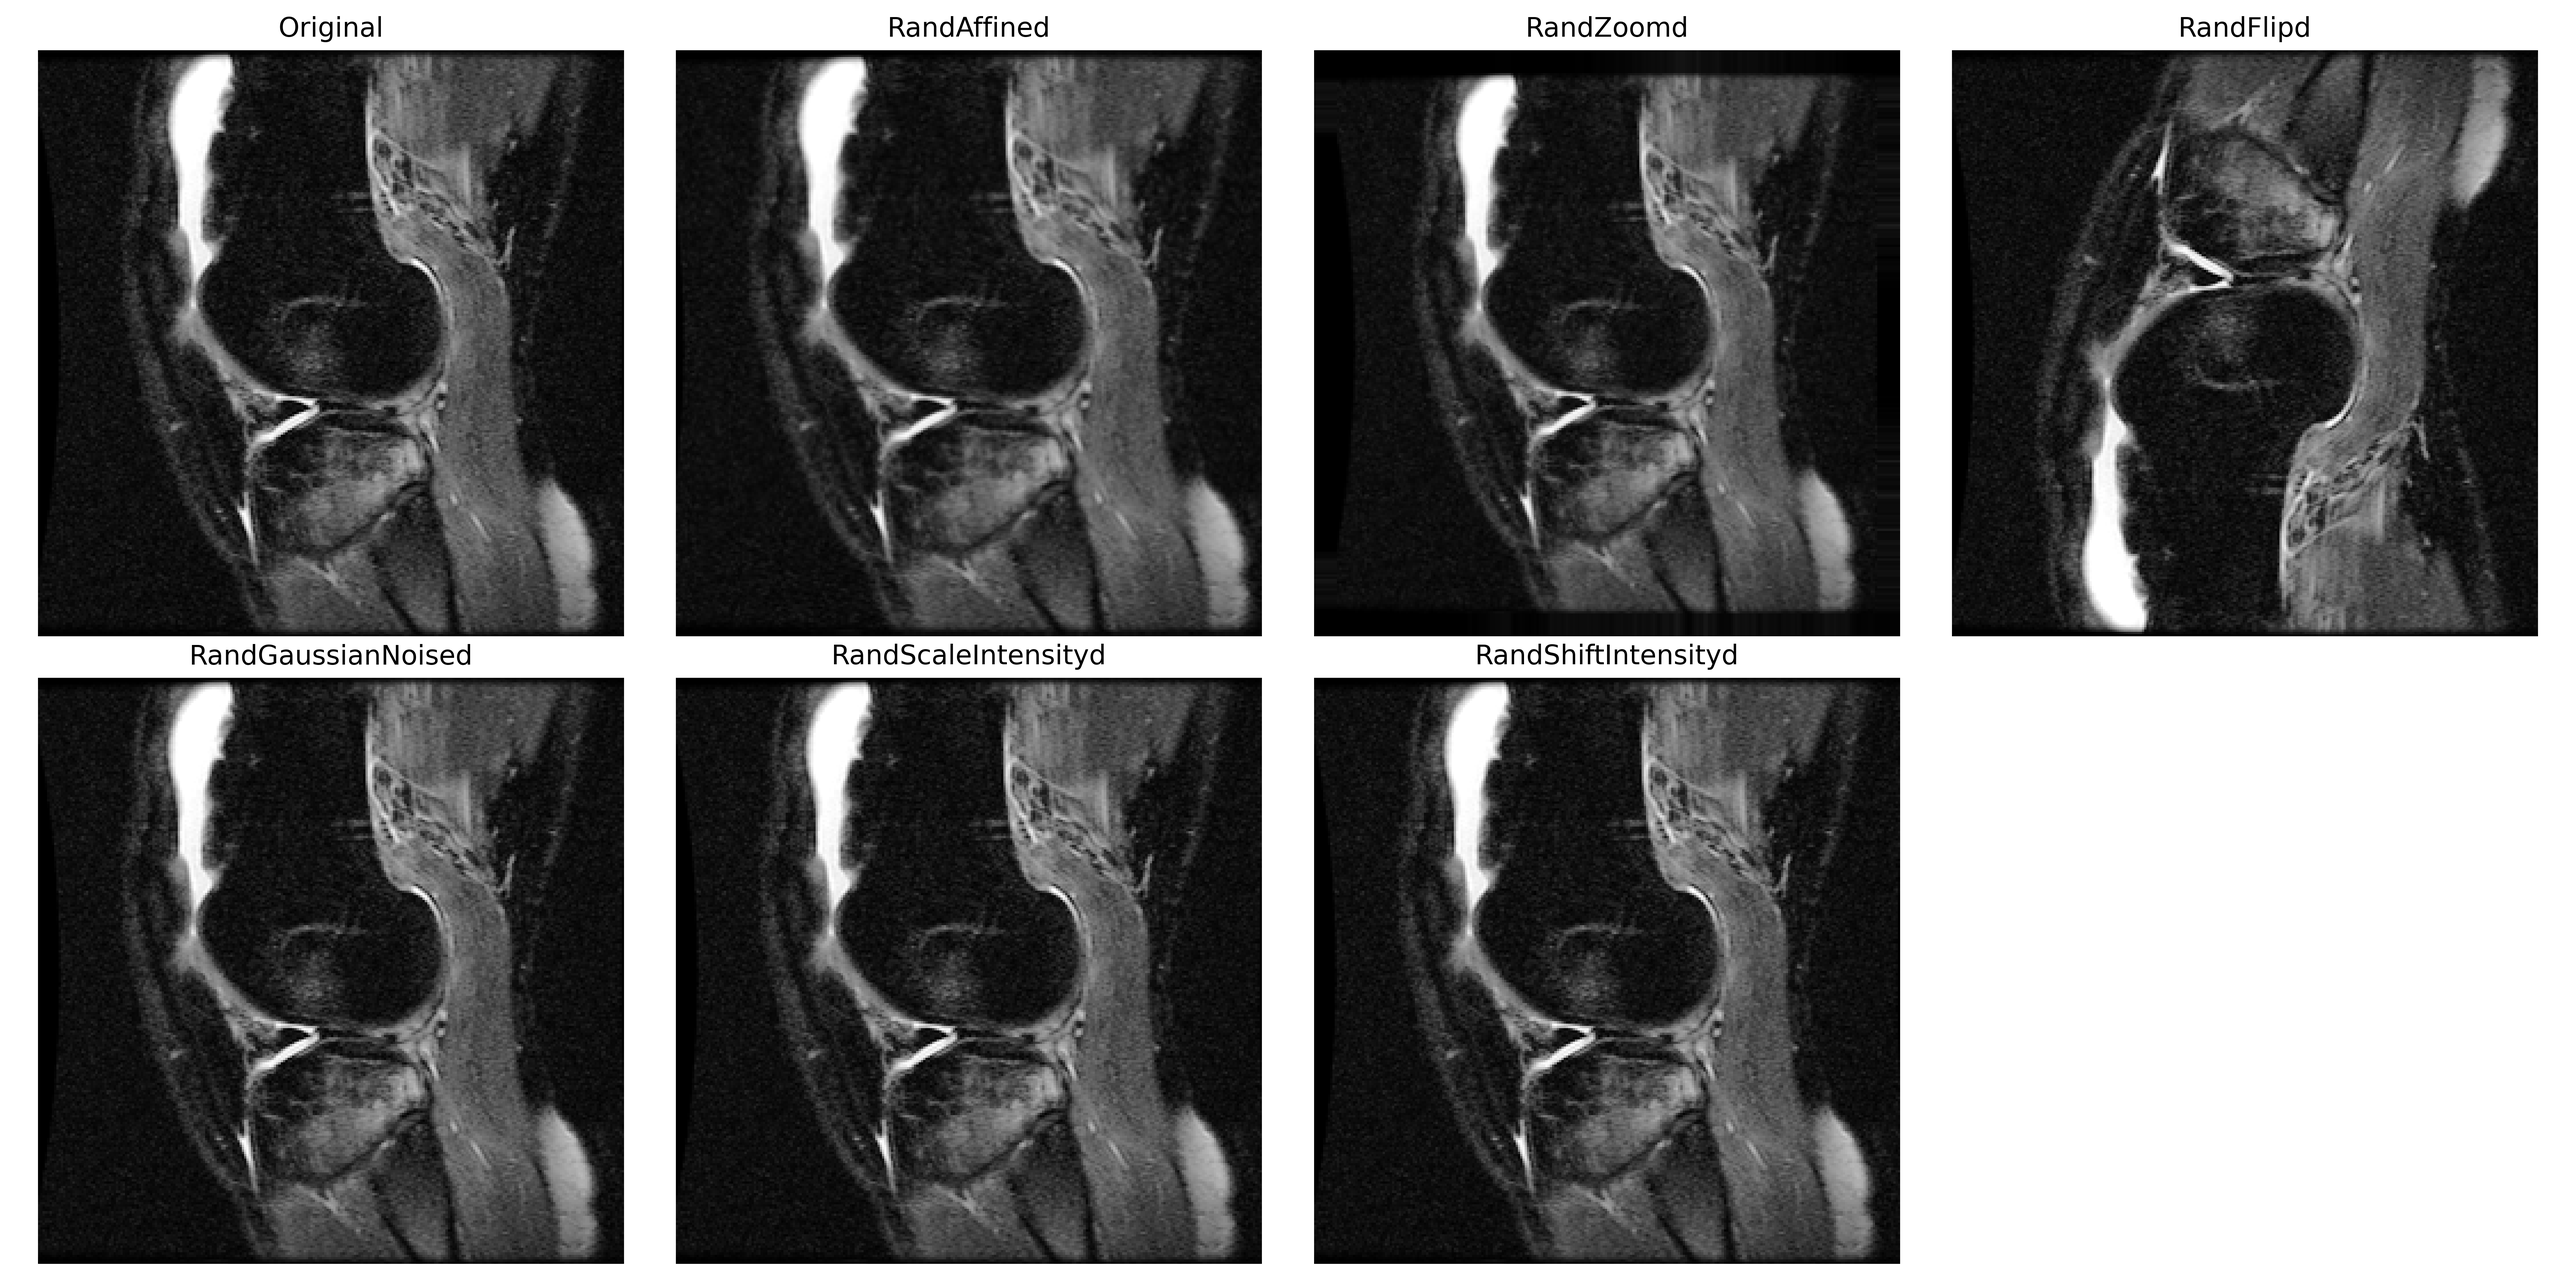
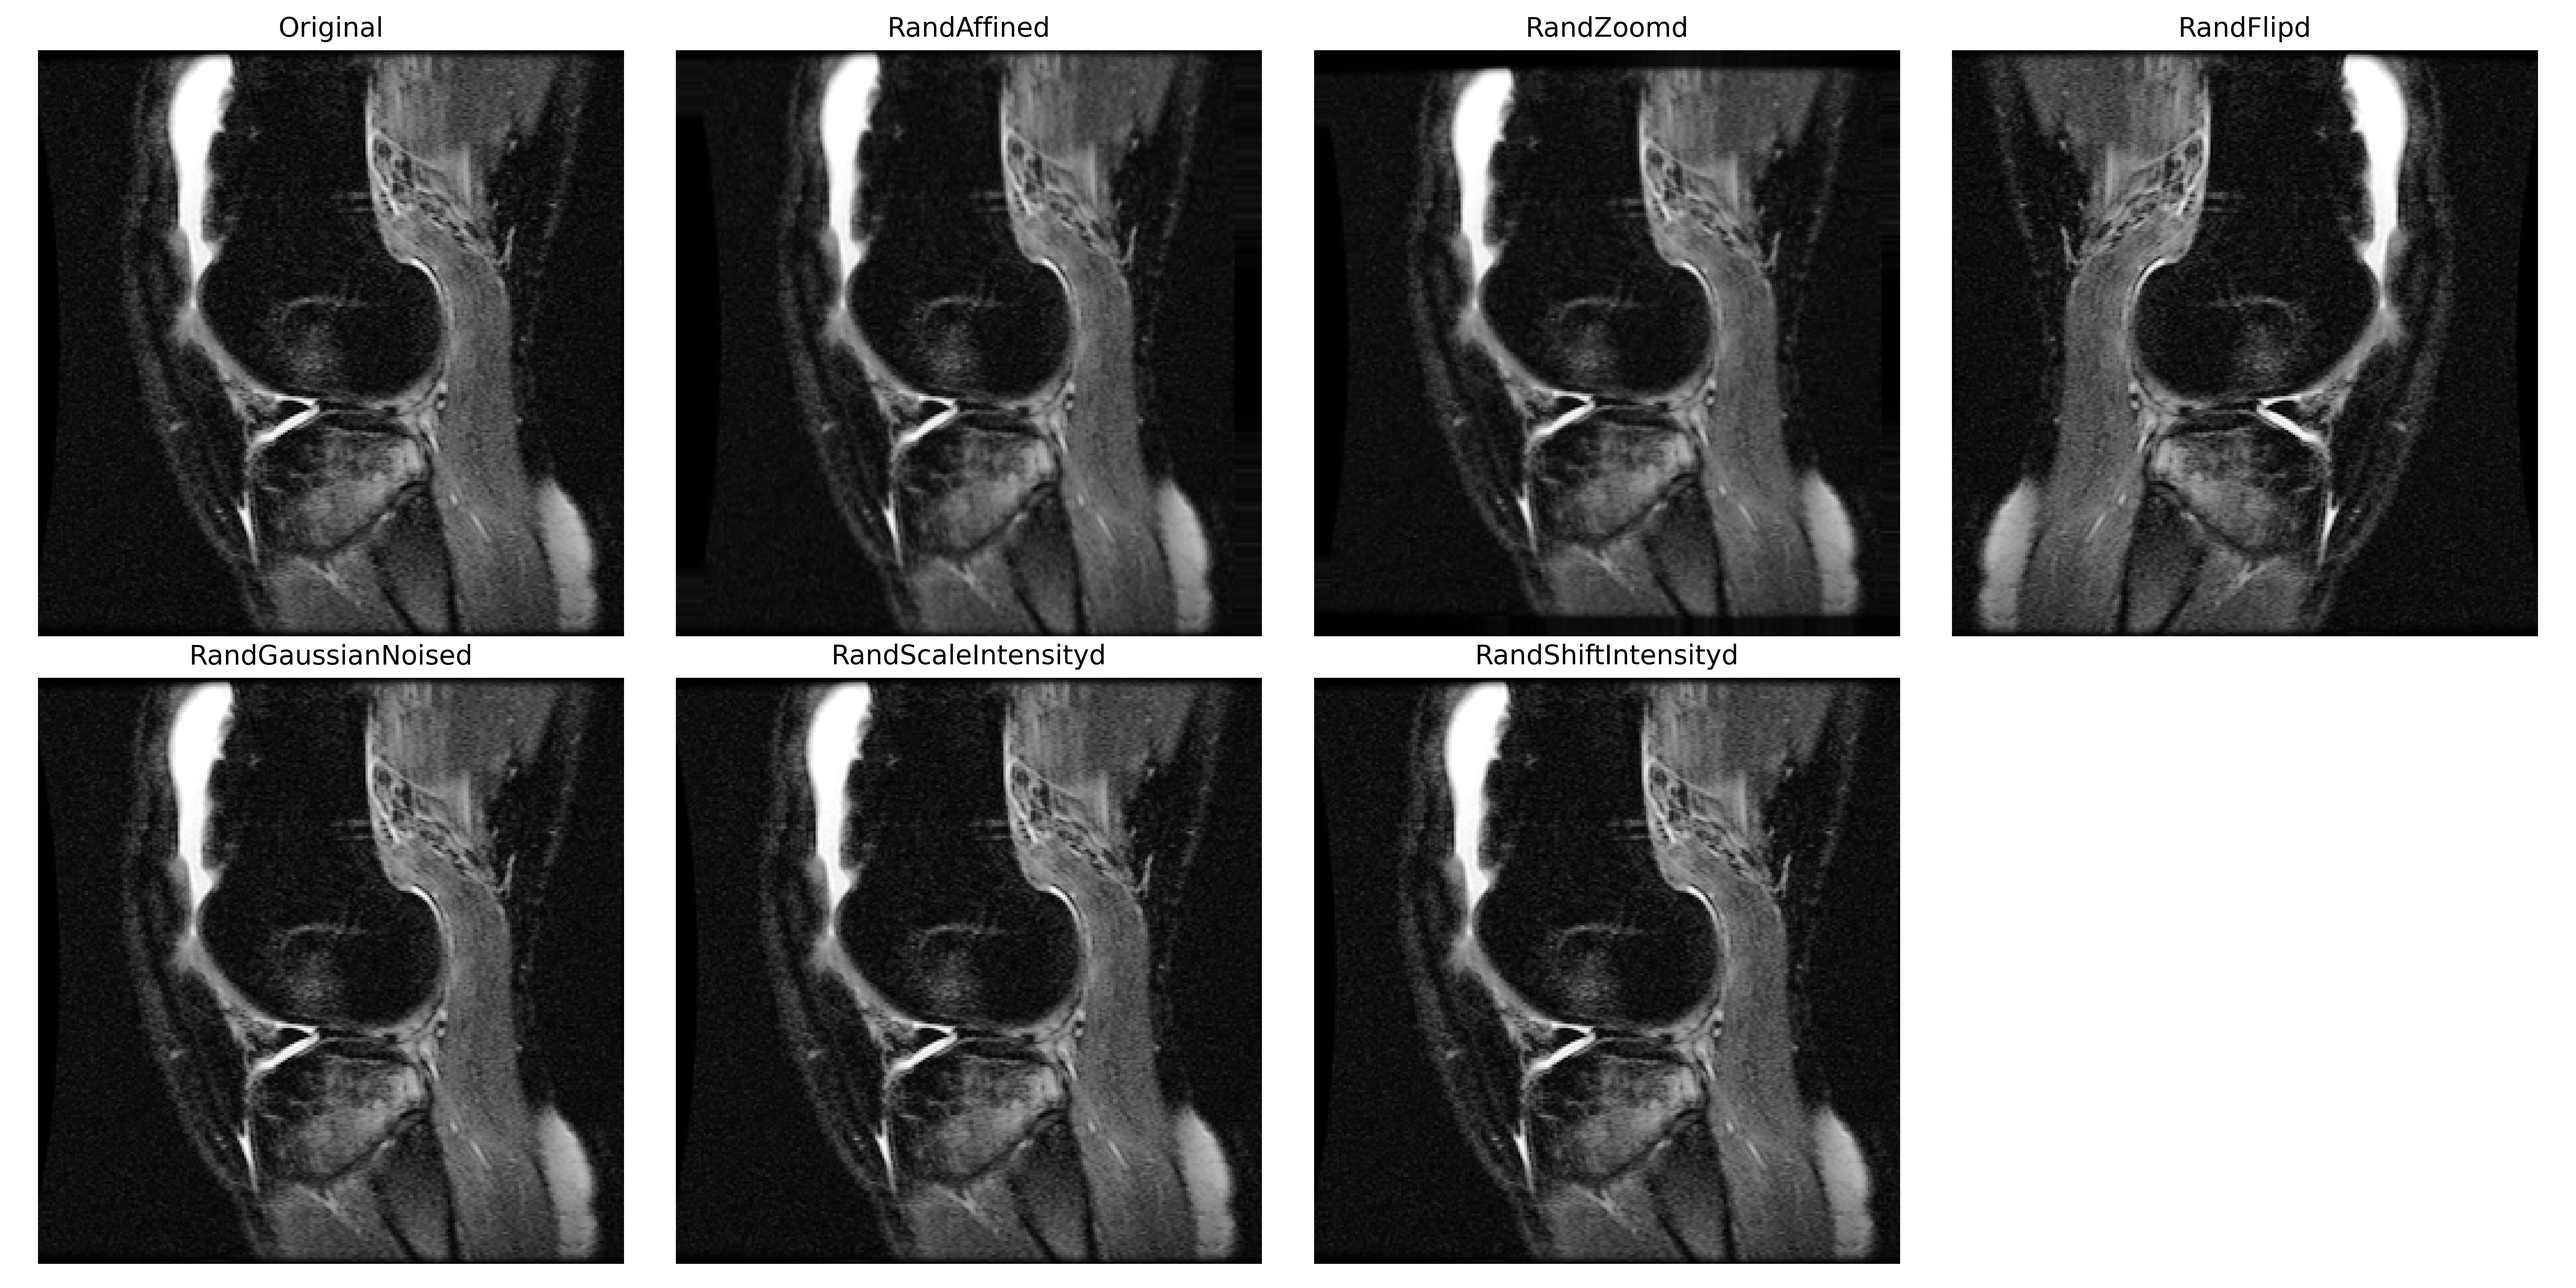
correct flip orientation

diff --git a/vis_transform.py b/vis_transform.py
@@ -39,7 +39,7 @@ transforms = [
         padding_mode="border"
     )),
     ("RandZoomd", RandZoomd(keys="image", prob=1.0, min_zoom=0.9, max_zoom=1.1, mode="bilinear", padding_mode="edge", keep_size=True)),
-    ("RandFlipd", RandFlipd(keys="image", spatial_axis=0, prob=1.0)),
+    ("RandFlipd", RandFlipd(keys="image", spatial_axis=1, prob=1.0)),
     ("RandGaussianNoised", RandGaussianNoised(keys="image", prob=1.0, mean=0.0, std=0.1)),
     ("RandScaleIntensityd", RandScaleIntensityd(keys="image", prob=1.0, factors=0.2)),
     ("RandShiftIntensityd", RandShiftIntensityd(keys="image", prob=1.0, offsets=0.1)),
